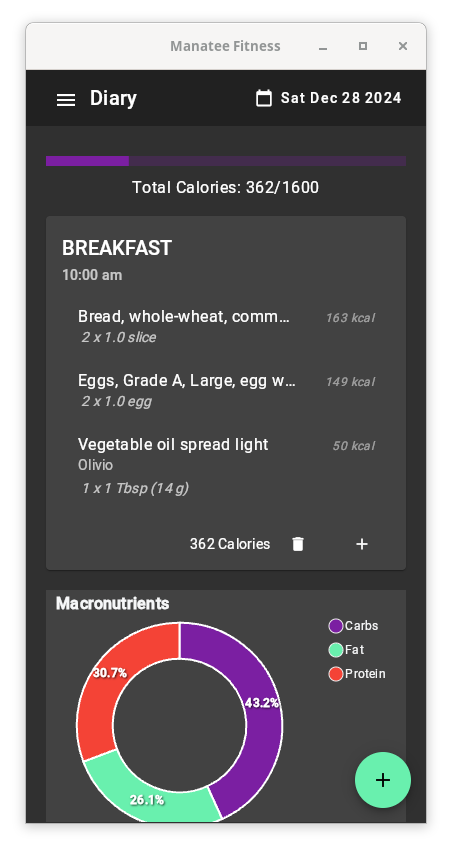
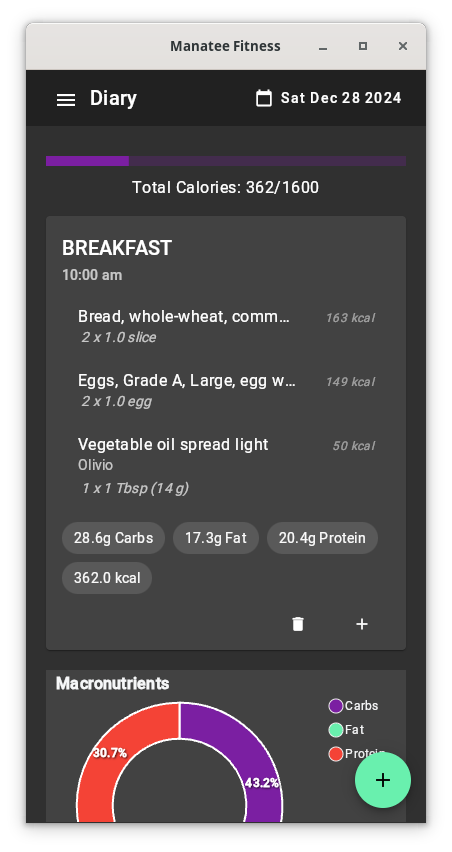
Add macros to meal card

diff --git a/src/app/components/meal-card/meal-card.component.ts b/src/app/components/meal-card/meal-card.component.ts
@@ -1,6 +1,7 @@
-import { Component, computed, effect, inject, input, output, untracked } from '@angular/core';
+import { Component, computed, effect, inject, input, output, signal, untracked } from '@angular/core';
 import { MatButtonModule } from '@angular/material/button';
 import { MatCardModule } from '@angular/material/card';
+import { MatChipsModule } from '@angular/material/chips';
 import { MatDialog } from '@angular/material/dialog';
 import { MatIconModule } from '@angular/material/icon';
 import { MatListModule } from '@angular/material/list';
@@ -27,6 +28,7 @@ import { lastValueFrom } from 'rxjs';
         LongPressDirective,
         MatButtonModule,
         MatCardModule,
+        MatChipsModule,
         MatIconModule,
         MatListModule,
         RouterLink,
@@ -51,10 +53,11 @@ export class MealCardComponent {
         }
     });
     foods: Array<SummedMealFood> = [];
-    summedMeal: SummedFood = new SummedFood();
-
-    // TODO: Should grab mealfoods so we have access to quantity, and the ability to
-    // modify the mealfood. This will likely come with a re-org of how the mealfoods are displayed
+    summedMeal = signal<SummedFood>(new SummedFood());
+    summedCarbsRounded = computed(() => this.summedMeal().carbs.toFixed(1));
+    summedFatRounded = computed(() => this.summedMeal().fat.toFixed(1));
+    summedProteinRounded = computed(() => this.summedMeal().protein.toFixed(1));
+    summedCaloriesRounded = computed(() => this.summedMeal().calories.toFixed(1));
 
     constructor() {
         // This effect will automatically re-run anytime the meal signal is changed,
@@ -70,7 +73,7 @@ export class MealCardComponent {
                     dateToFind: meal.meal_date,
                     mealToFind: meal.meal_name,
                 }).then(summedFood => {
-                    this.summedMeal = summedFood;
+                    this.summedMeal.set(summedFood);
                 });
             });
         });

diff --git a/src/app/components/meal-card/meal-card.component.html b/src/app/components/meal-card/meal-card.component.html
@@ -38,9 +38,14 @@
                     </mat-list-item>
                 }
             </mat-action-list>
+            <mat-chip-set role="list">
+                <mat-chip role="listitem">{{ summedCarbsRounded() }}g Carbs</mat-chip>
+                <mat-chip role="listitem">{{ summedFatRounded() }}g Fat</mat-chip>
+                <mat-chip role="listitem">{{ summedProteinRounded() }}g Protein</mat-chip>
+                <mat-chip role="listitem">{{ summedCaloriesRounded() }} kcal</mat-chip>
+            </mat-chip-set>
         </mat-card-content>
         <mat-card-actions align="end">
-            {{ summedMeal.calories }} Calories
             <button mat-button (click)="deleteMeal($event)">
                 <mat-icon aria-hidden="false" aria-label="Delete meal icon" fontIcon="delete"></mat-icon>
             </button>
